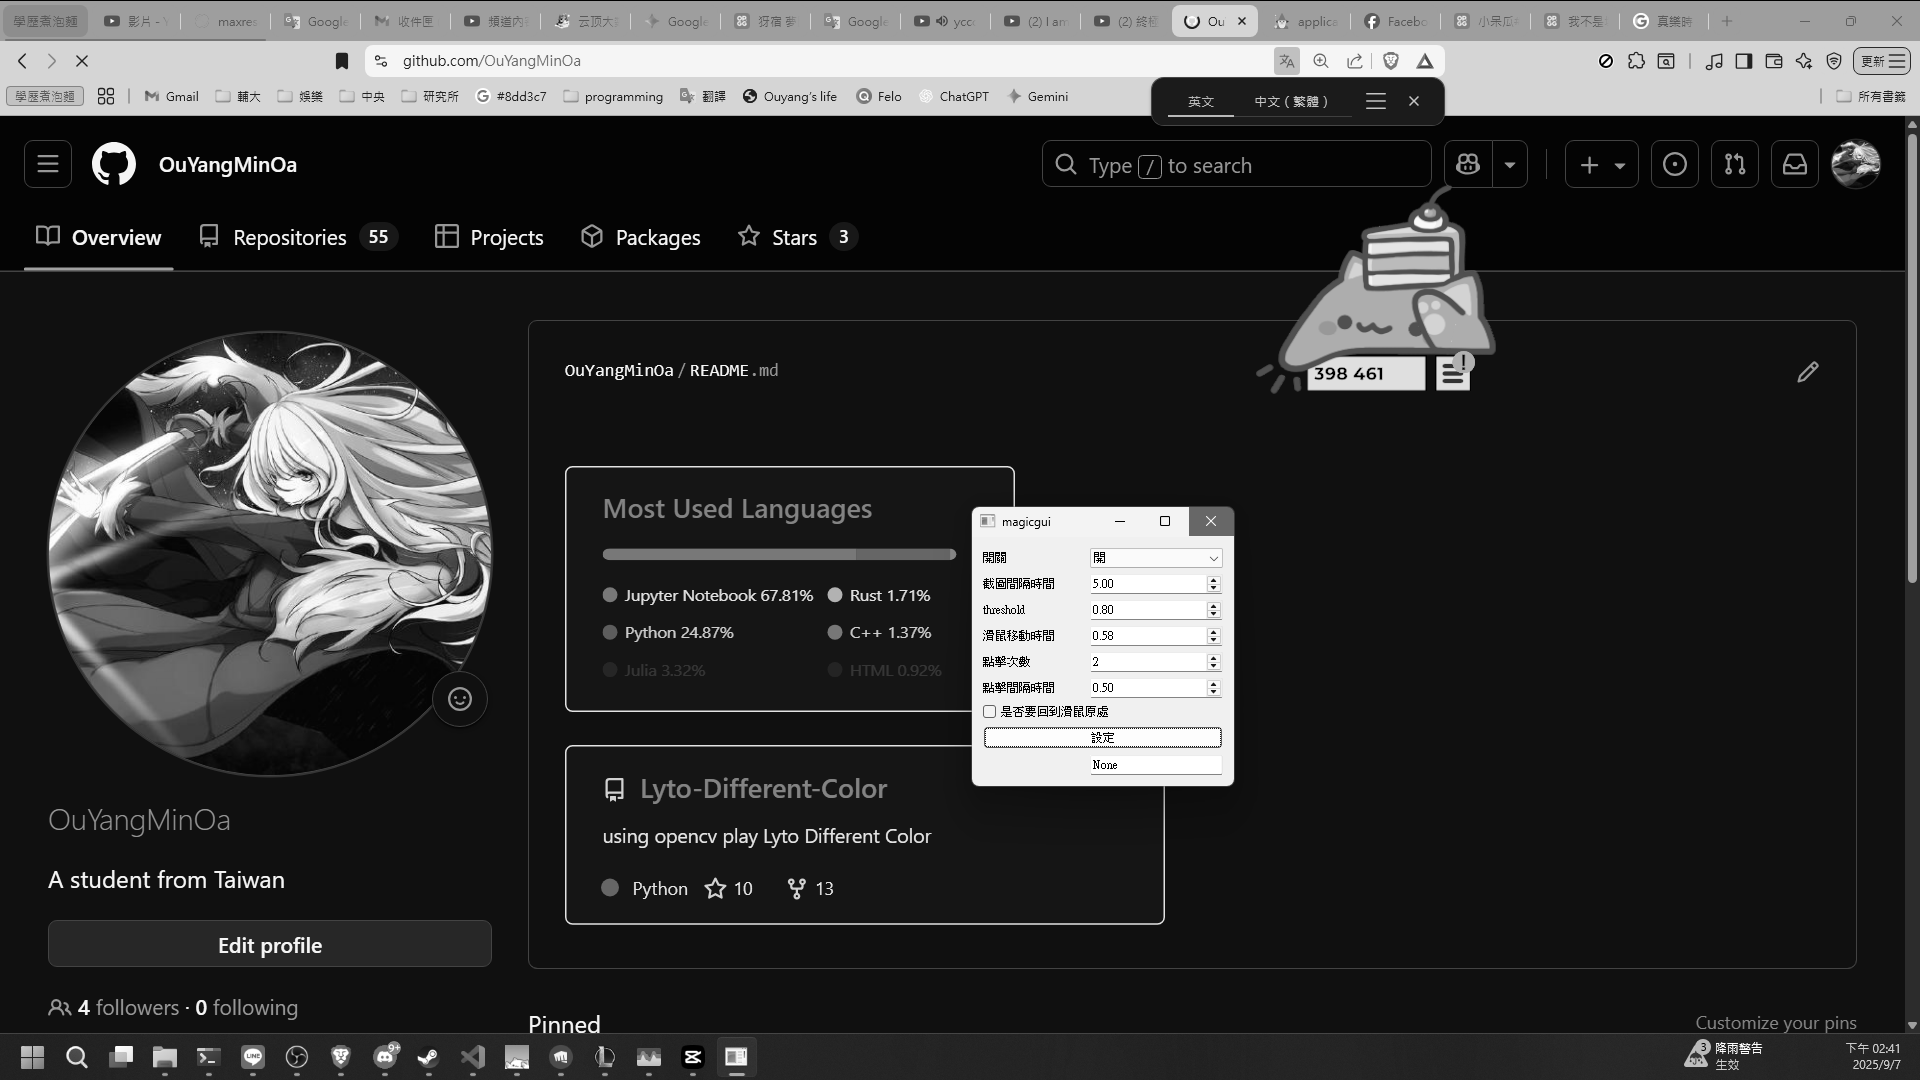
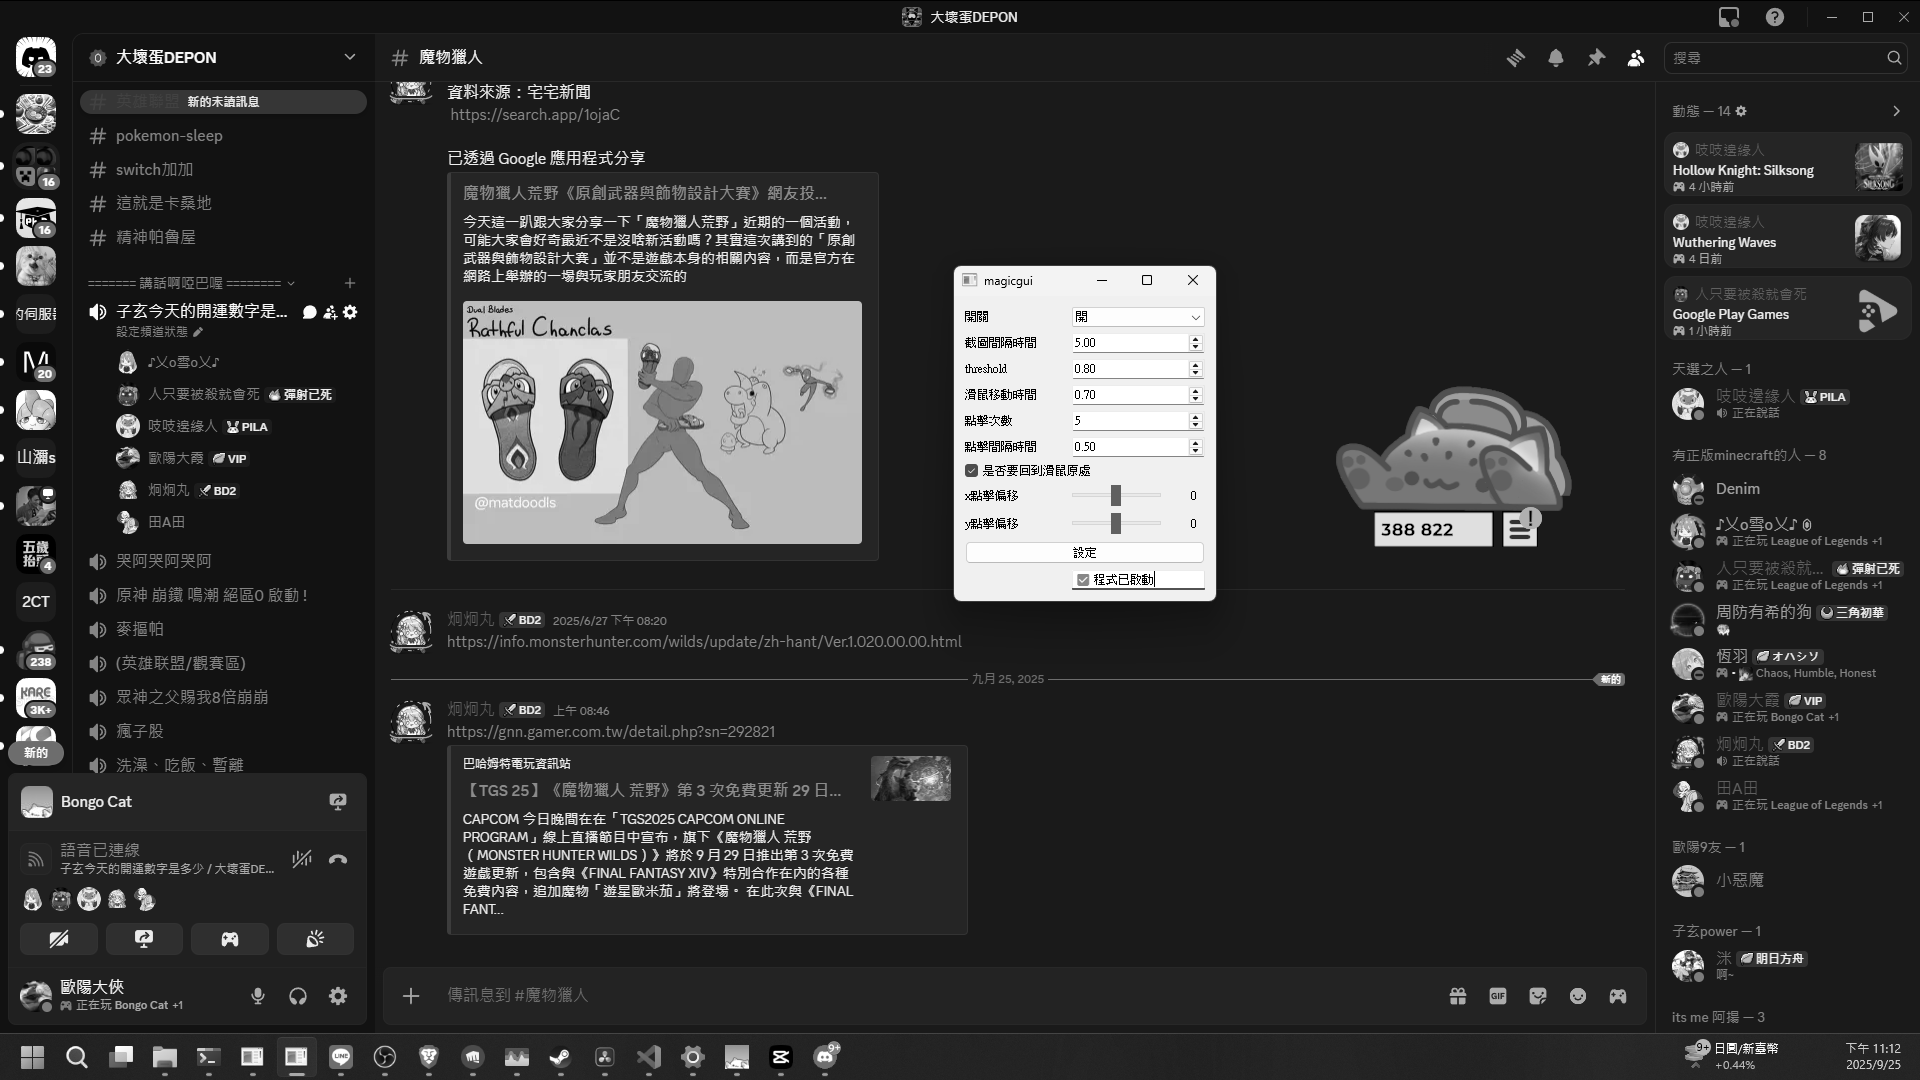
feat: update GUI sliders for click offset and adjust Config data types

diff --git a/main.py b/main.py
@@ -5,9 +5,12 @@ from src.app import Application, Config
 logic_app = Application()
 
 app = Application()
-@magicgui(call_button = "設定", result_widget=True, labels = True, tooltips = True,
-          x點擊偏移 = {"widget_type": "LogSlider", "max": 200, "min": -200, "tracking": False},
-          y點擊偏移 = {"widget_type": "LogSlider", "max": 200, "min": -200, "tracking": False})
+this_magicgui = magicgui(call_button = "設定", result_widget=True, labels = True, tooltips = True,
+          x點擊偏移 = {"widget_type": "Slider", "max": 50, "min": -50, "step": 0.25},
+          y點擊偏移 = {"widget_type": "Slider", "max": 50, "min": -50, "step": 0.25},
+          )
+
+@this_magicgui
 def gui(
     開關             : Literal['開', '關'] = '開',
     截圖間隔時間     : float = 5, # 秒
@@ -16,8 +19,8 @@ def gui(
     點擊次數          : int  = 5,
     點擊間隔時間      : float = 0.5,
     是否要回到滑鼠原處 : bool  = True,
-    x點擊偏移 : float = 0,
-    y點擊偏移 : float = 0):
+    x點擊偏移 : int = 0,
+    y點擊偏移 : int = 0):
 
     alive_str = None
     if 開關 == '開' and logic_app.alive == False: 
@@ -34,6 +37,8 @@ def gui(
     Config.click_time            = 點擊次數
     Config.click_interval        = 點擊間隔時間
     Config.back_2_original_pos   = 是否要回到滑鼠原處
+    Config.offset_x              = x點擊偏移
+    Config.offset_y              = y點擊偏移
     if alive_str is not None:
         return alive_str
     return f"""🔄 設定已更新"""

diff --git a/src/app.py b/src/app.py
@@ -23,16 +23,16 @@ class Config:
     screenshot_interval : float = 0.1          # 截圖間隔時間（秒）
     match_threshold     : float = 0.8          # 模板匹配閾值
     move_duration       : float = 0.7          # 移動到目標位置的時間（秒）
-    click_time          : int   = 5        
+    click_time          : int   = 5
     click_interval      : float = 0.5          # 點擊間隔時間（秒）
     back_2_original_pos : bool  = True         # 點擊後返回原位置
-    offset_x            : float = 0.0
-    offset_y            : float = 0.0
+    offset_x            : int   = 0
+    offset_y            : int   = 0
     # @magicgui(call_button="calculate")
     # def GUI()
 
 
-class Apppplication:
+class Application:
     ratio_list          = [2,1.75,1.5,1.25,1,0.75,0.5]
     template_list       = []
     target_window_title = "BongoCat"
